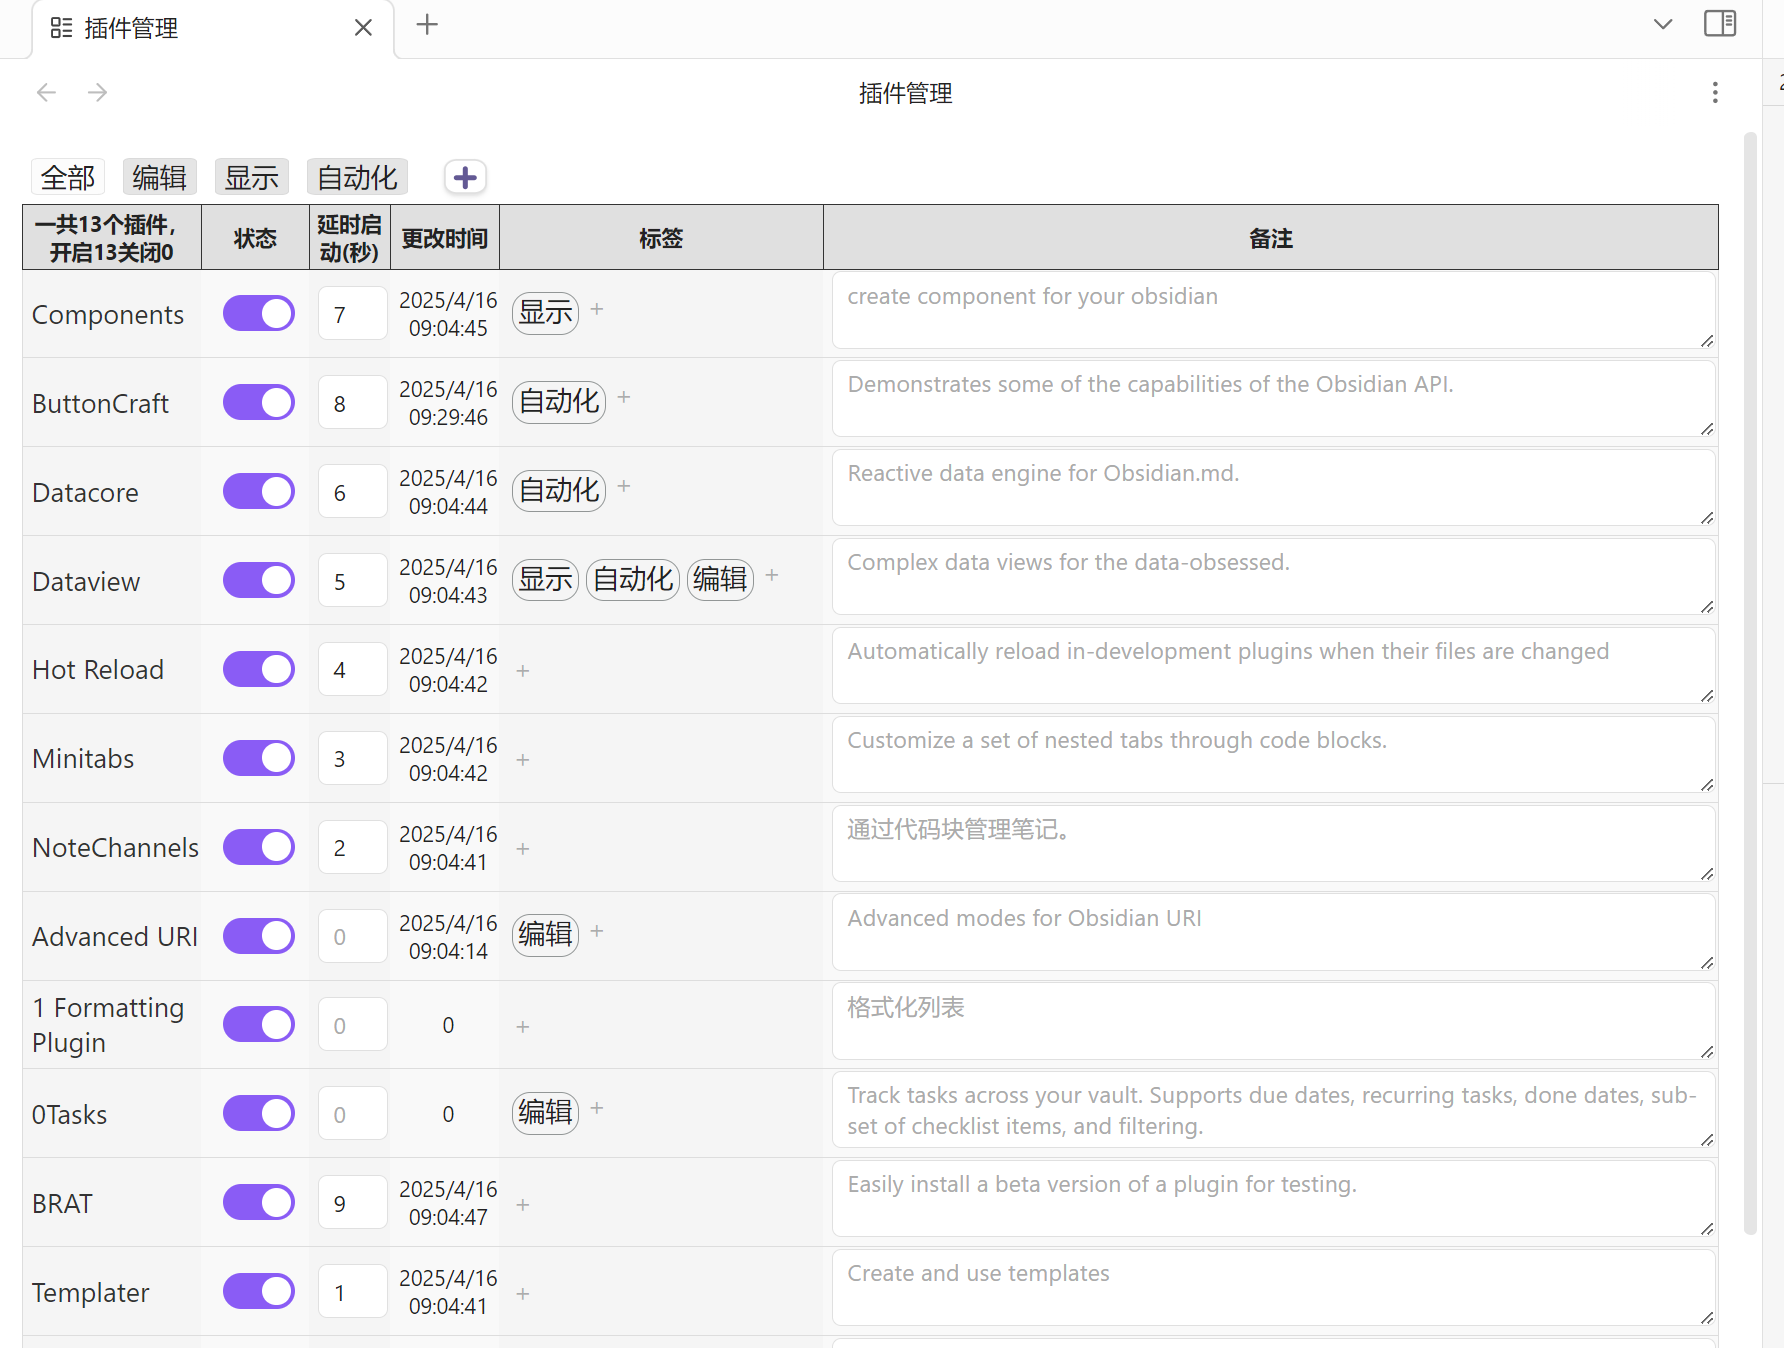
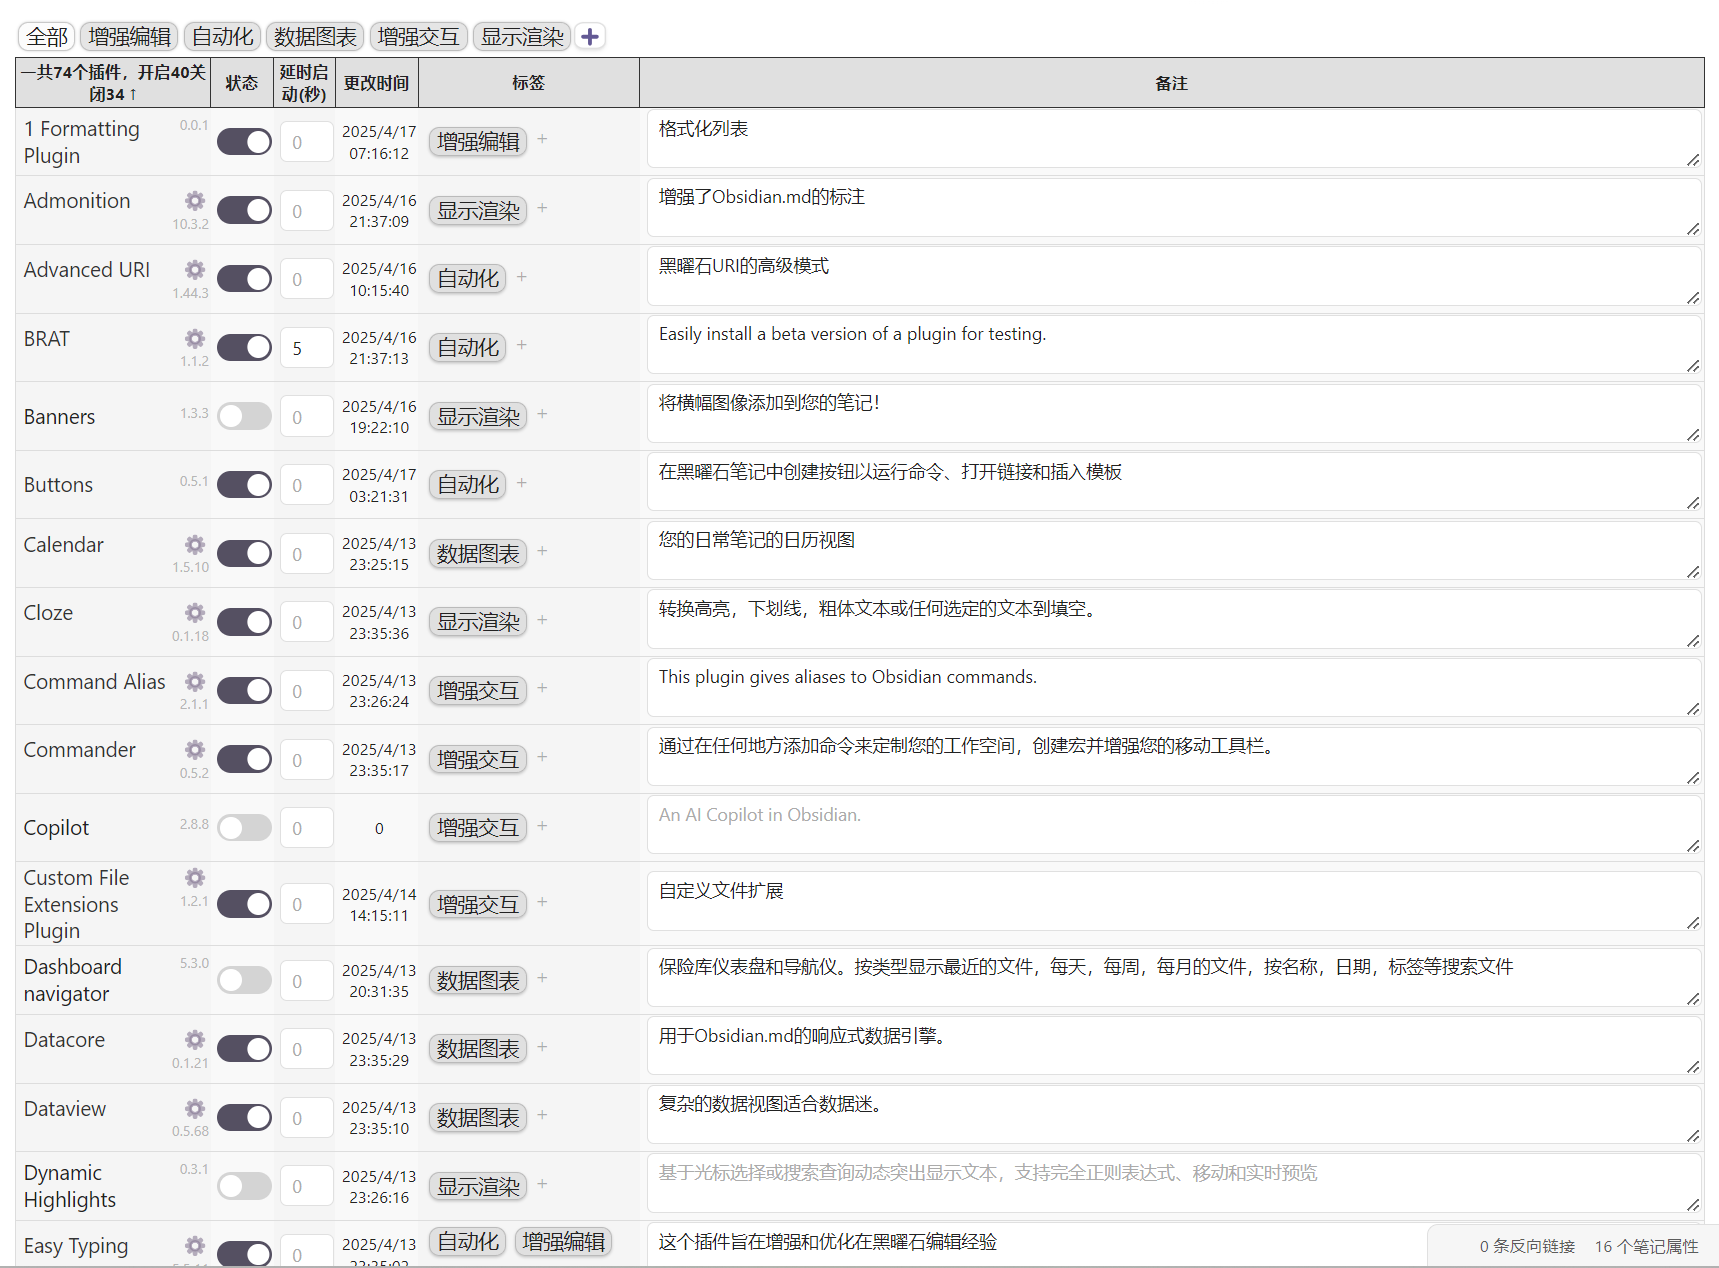
新增了配置文件在外部（同步软件）修改是重新加载配置的功能。
- 修改了插件管理的样式

diff --git a/src/watchtowerPlugin/toolsFC.ts b/src/watchtowerPlugin/toolsFC.ts
@@ -1,3 +1,4 @@
+/* eslint-disable no-mixed-spaces-and-tabs */
 import { TAbstractFile, TFile, WorkspaceLeaf } from "obsidian";
 import WatchtowerPlugin from "../main";
 import { VIEW_TYPE_FILE_SUPERVISION } from "./view/leafView";
@@ -75,13 +76,13 @@ export function registerFileEventHandlers(plugin: WatchtowerPlugin) {
 											? `增加${
 													file.stat.size -
 													fileStat.stat.size
-										}字节`
+											  }字节`
 											: file.stat.size <
-											fileStat.stat.size
+											  fileStat.stat.size
 											? `减少${
 													fileStat.stat.size -
 													file.stat.size
-											}字节`
+											  }字节`
 											: ""
 										: fileStat.differents,
 							};
@@ -158,27 +159,23 @@ export function registerFileEventHandlers(plugin: WatchtowerPlugin) {
 			fileEventHandler("created", file)
 		)
 	);
-    // 订阅文件打开事件
-    plugin.registerEvent(
-        plugin.app.workspace.on(
-            "file-open",
-            (file: TAbstractFile | null) => {
-                if (file) {
-                    // 调用文件事件处理器或其他逻辑
-                    fileEventHandler("opened", file);
-                }
-            }
-        )
+	// 订阅文件打开事件
+	plugin.registerEvent(
+		plugin.app.workspace.on("file-open", (file: TAbstractFile | null) => {
+			if (file) {
+				// 调用文件事件处理器或其他逻辑
+				fileEventHandler("opened", file);
+			}
+		})
 	);
-    plugin.registerEvent(
-        //@ts-ignore
-        plugin.app.vault.on("raw", (file: TAbstractFile | null) => {
-            if (file) {
-                // 调用文件事件处理器或其他逻辑                
-                fileEventHandler("raw", file);
-            }
-        })
-    
+	plugin.registerEvent(
+		//@ts-ignore
+		plugin.app.vault.on("raw", (file: TAbstractFile | null) => {
+			if (file) {
+				// 调用文件事件处理器或其他逻辑
+				fileEventHandler("raw", file);
+			}
+		})
 	);
 }
 /** 激活右边视图 */

diff --git a/src/pluginManagerPlugin/PluginManagerMain.ts b/src/pluginManagerPlugin/PluginManagerMain.ts
@@ -4,7 +4,7 @@ import {
 	PluginManagerLeft,
 	VIEW_TYPE_PLUGIN_MANAGER,
 } from "./PluginManagerLeft";
-import { setSettings, store } from "src/store";
+import { store } from "src/store";
 
 export interface PluginManagerPlugin {
 	plugin: WatchtowerPlugin;
@@ -44,29 +44,30 @@ export class PluginManagerPlugin {
 					setTimeout(async () => {
 						//@ts-ignore
 						await app.plugins.enablePlugin(plugin.id);
-						const updatedPlugins = store
-							.getState()
-							.settings.pluginManager.map((p) => {
-								if (p.id === plugin.id) {
-									return {
-										...p,
-										enabled: true,
-										haveSettingTab: plugin.haveSettingTab
-											? true
-											: //@ts-ignore
-											app.setting.pluginTabs.some(
-													(g: { id: string }) =>
-														g.id === plugin.id
-											),
-									};
-								}
-								return p;
-							});
-						const newSettings = {
-							...store.getState().settings,
-							pluginManager: updatedPlugins,
-						};
-						store.dispatch(setSettings(newSettings));
+						// const updatedPlugins = store
+						// 	.getState()
+						// 	.settings.pluginManager.map((p) => {
+						// 		if (p.id === plugin.id) {
+						// 			return {
+						// 				...p,
+						// 				enabled: true,
+						// 				haveSettingTab: plugin.haveSettingTab
+						// 					? true
+						// 					: //@ts-ignore
+						// 					app.setting.pluginTabs.some(
+						// 							(g: { id: string }) =>
+						// 								g.id === plugin.id
+						// 					),
+						// 			};
+						// 		}
+						// 		return p;
+						// 	});
+						// const newSettings = {
+						// 	...store.getState().settings,
+						// 	pluginManager: updatedPlugins,
+						// };
+						// store.dispatch(setSettings(newSettings));
+						getAllPlugins();
 					}, plugin.delayStart * 1000);
 				}
 			});

diff --git a/src/main.ts b/src/main.ts
@@ -18,10 +18,10 @@ export default class WatchtowerPlugin extends Plugin {
 
 	async onload() {
 		// 加载设置
-        await loadSettings(this);
+		await loadSettings(this);
 		this.app.workspace.onLayoutReady(async () => {
 			this.fileHandler = new FileHandler(this);
-			
+
 			init(this);
 			if (this.settings.watchtowerPlugin) {
 				// 等待应用初始化完成
@@ -45,12 +45,14 @@ export default class WatchtowerPlugin extends Plugin {
 		/** 卸载标签页*/
 		this.app.workspace.detachLeavesOfType(VIEW_TYPE_FILE_SUPERVISION);
 		this.app.workspace.detachLeavesOfType(VIEW_TYPE_PLUGIN_MANAGER);
-    }
-    async onExternalSettingsChange() {
-       new Notice("Watchtower：插件配置被修改，重载插件配置。",5);
-        await loadSettings(this);
-        await init(this);
-        getAllPlugins();
-        new Notice("Watchtower：重载完毕。",5);
-    }
+	}
+	async onExternalSettingsChange() {
+		new Notice("Watchtower：插件配置被外部修改。");
+		await loadSettings(this);
+		await init(this);
+		getAllPlugins();
+		new Notice("Watchtower：重载完毕。",20000 );
+	}
 }
+
+

diff --git a/src/pluginManagerPlugin/PluginManagerView.tsx b/src/pluginManagerPlugin/PluginManagerView.tsx
@@ -71,8 +71,7 @@ const PluginManagerView: React.FC<PluginManagerView> = ({ plugin }) => {
     }
     /**处理延时启动*/
     const handleDelayStartChange = async (iPlugin: PluginManager, newDelayStart: number) => {
-        if (iPlugin.delayStart === newDelayStart ||!iPlugin.delayStart && !newDelayStart) return;
-        
+        if (iPlugin.delayStart === newDelayStart ||(!iPlugin.delayStart && !newDelayStart)) return;
         //记录到设置的启动状态，下次重启obsidian使用这个配置显示
         const updatedPlugins = pluginManager.map(p => {
             if (p.id === iPlugin.id) {

diff --git a/README.md b/README.md
@@ -1,10 +1,10 @@
 # Watchtower 插件功能介绍
 
-此插件旨在增强 Obsidian 的笔记安全功能，专注于**笔记监控**与**插件管理**。
+这是一个[obsidian](https://obsidian.md/)插件。旨在增强 Obsidian 的笔记安全功能和使用体验。**笔记监控**与**插件管理**，让我们在笔记中享受更安全、更高效的体验。
 
-## 1. **文件监控**  
+## 1. **笔记监控**  
 
-   对笔记基本数据的实时记录，确保笔记数据的完整性和一致性。多设备同步的冲突，或误操作删改笔记时。提供一份笔记更改记录和最近打开文件的历史记录，帮助及时发现、及时解决问题。特别是在大规模更改笔记数据时非常有帮助。
+   对笔记基本数据的实时记录，确保笔记的完整性和一致性。解决多设备同步造成的笔记丢失、冲突、误操作删改笔记时。提供一份笔记更改记录，帮助我们及时发现及时解决问题。特别是在大规模批量替换、更改笔记时非常有帮助。另外提供一个最近打开文件的历史记录，当作是一个快速切换笔记的快捷方式。
 
 ### 文件监控功能演示
 
@@ -12,8 +12,8 @@
 
 ## 2. **插件管理能力**  
 
+有时候为了一个功能一条命令下一个插件，不用多久就安装了大量插件，需要用的时候又不知道如何在插件的海洋里面找出需要的命令，这样整个应用使用起来感觉非常破碎。这个插件管理功能允许用户根据个人需求自定义插件行为，排序、备注、开关，分组、延时启动其他插件。
 ![插件管理](./document/Quicker_20250416_095744.png)
-   有时候为了一个功能一条命令下一个插件，不用多久就安装了大量插件，需要用的时候又不知道如何在插件的海洋里面找出需要的命令，这样整个应用使用起来感觉非常破碎。这个插件管理功能允许用户根据个人需求自定义插件行为，排序、备注、开关，延时启动其他插件。
 
 ### 插件管理功能演示
 
